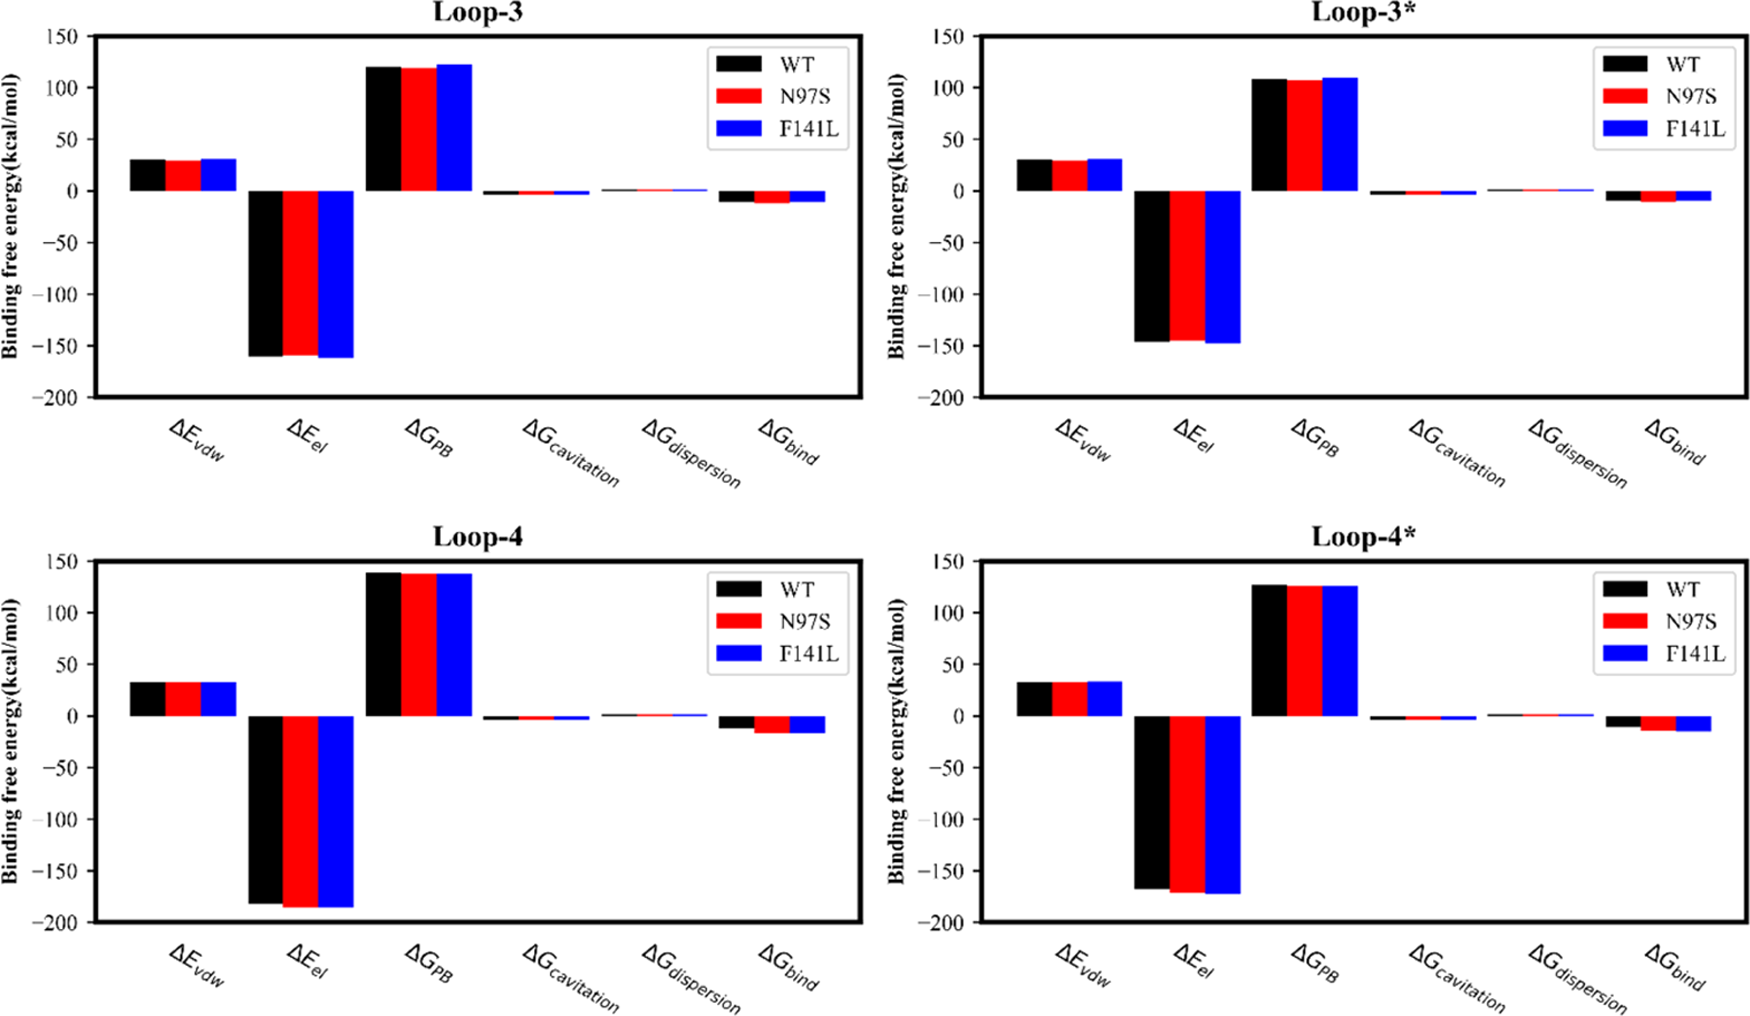
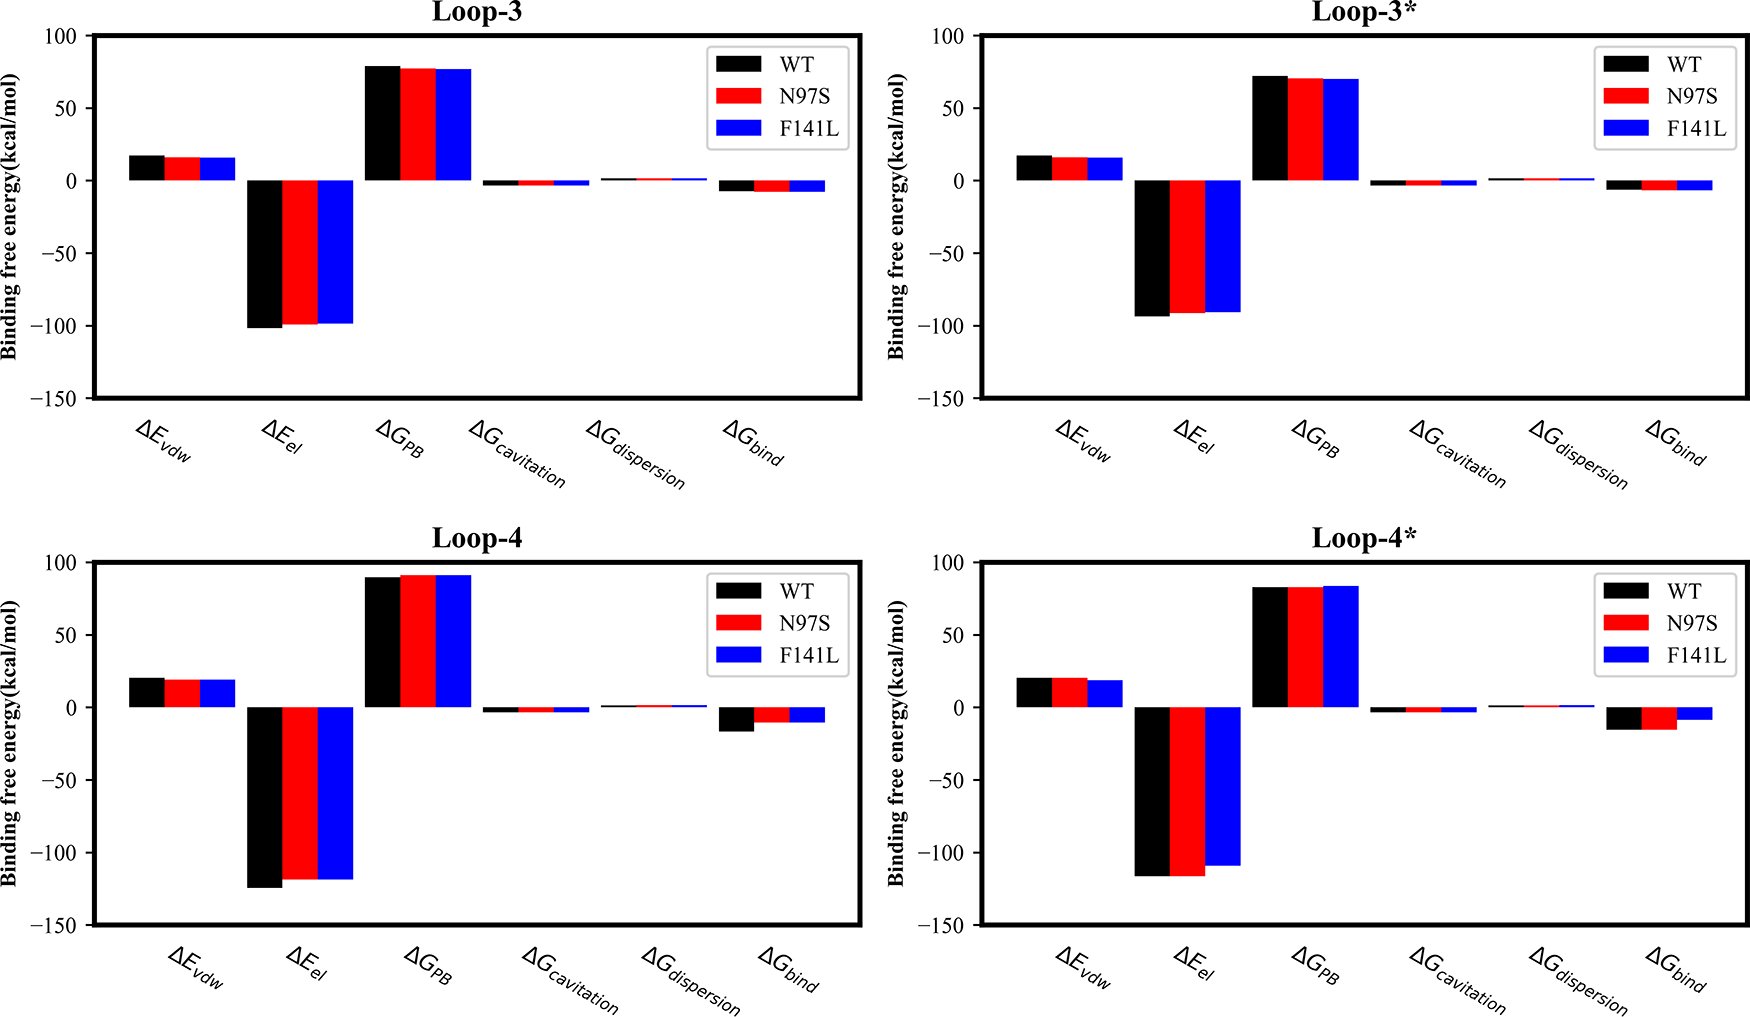
Done MolJam

diff --git a/tools/wechat_html/build_wechat_html.py b/tools/wechat_html/build_wechat_html.py
@@ -687,16 +687,18 @@ def apply_inline_styles(html, theme=None, heading_style="plain", quote_style="ba
         bq_open = (f'<blockquote style="background:{bq["bg"]};'
                    f'padding:{bq["padding"]};color:{bq["color"]};'
                    f'margin:{bq["margin"]};border-radius:10px;'
-                   f'font-size:{bq["size"]}px;line-height:{bq["line_height"]};">'
+                   f'font-size:{bq["size"]}px;line-height:{bq["line_height"]};'
+                   f'text-align:left;">'
                    f'<span style="color:{col["link_border"]};font-size:34px;'
                    f'font-weight:bold;line-height:0.6;vertical-align:-12px;'
-                   f'margin-right:2px;">“</span>')
+                   f'margin-right:2px;">"</span>')
     else:  # bar
         bq_open = (f'<blockquote style="border-left:{bq["border_left"]};'
                    f'background-color:{bq["bg"]};padding:{bq["padding"]};'
                    f'color:{bq["color"]};margin:{bq["margin"]};'
                    f'border-radius:{bq["radius"]};'
-                   f'font-size:{bq["size"]}px;line-height:{bq["line_height"]};">')
+                   f'font-size:{bq["size"]}px;line-height:{bq["line_height"]};'
+                   f'text-align:left;">')
     html = re.sub(r'<blockquote>', bq_open, html)
     return html
 

diff --git a/tools/check_frontmatter.py b/tools/check_frontmatter.py
@@ -101,13 +101,13 @@ def main():
     try:
         root = subprocess.check_output(
             ["git", "rev-parse", "--show-toplevel"], text=True).strip()
-    except subprocess.CalledProcessError:
+    except (subprocess.CalledProcessError, OSError):
         sys.exit(0)
     try:
         out = subprocess.check_output(
             ["git", "diff", "--cached", "--name-only",
              "--diff-filter=ACMR"], text=True).strip()
-    except subprocess.CalledProcessError:
+    except (subprocess.CalledProcessError, OSError):
         out = ""
     candidates = []
     for f in out.split("\n"):

diff --git a/_pages/Molecular Dynamics/FF & Algorithm/Metal/2026-09-02-Basit-2022-ECCR-MM-PBSA-技术细节.md b/_pages/Molecular Dynamics/FF & Algorithm/Metal/2026-09-02-Basit-2022-ECCR-MM-PBSA-技术细节.md
@@ -1,7 +1,7 @@
 ---
 title: "ECCR电荷缩放与MM-PBSA钙调蛋白结合自由能计算细节"
 date: "2026-09-02"
-last_modified_at: "2026-09-02"
+last_modified_at: "2026-09-03"
 tags: [metal-ion-force-field, EF-hand, calmodulin, MM-PBSA, charge-scaling, AMBER, molecular-dynamics, calcium]
 description: "梳理ECCR电荷缩放与MM-PBSA预测钙调蛋白结合自由能的完整流程，逐条核对体系参数、能量分解与回归校准，给出计算细节"
 image: "https://raw.githubusercontent.com/gxf1212/mendelevium/main/assets/img/4K_1080P_compressed/082135PV2YW.jpg"
@@ -20,7 +20,7 @@ lang: zh-CN
 
 ### 1. 基础MD体系参数
 
-以下参数来自正文Section 2和SI Table S2，已核对完整：
+以下参数来自正文Section 2（离子电荷与补偿见SI Table S1/S2），已核对完整：
 
 | 参数项 | 具体设置|
 | -------------------- | ------------------------------------- |
@@ -30,7 +30,7 @@ lang: zh-CN
 | 水盒边界| 10 Å|
 | 盐浓度 | 0.15 M $\ce{KCl}$|
 | $\ce{K^+}$/$\ce{Cl^-}$ 参数| Joung–Cheatham |
-| $\ce{Ca^{2+}}$ LJ参数 | Li–Merz 2013（Table S2）  |
+| $\ce{Ca^{2+}}$ LJ参数 | Li–Merz 2013（12-6 LJ，正文引用48）  |
 | 温度  | 298 K，Langevin thermostat，碰撞频率 $2~\mathrm{ps}^{-1}$ |
 | 压力  | Berendsen barostat，1 bar|
 | 长程静电| PME |
@@ -42,7 +42,7 @@ lang: zh-CN
 
 ## 2. ECCR电荷修改规则
 
-这篇并没有重新拟合新的 $\ce{Ca^{2+}}$ LJ参数。它以Li–Merz $\ce{Ca^{2+}}$ 参数为基础，**只修改静电部分**：
+这篇并没有重新拟合新的 $\ce{Ca^{2+}}$ LJ参数。它以Li–Merz 12-6 $\ce{Ca^{2+}}$ 参数为基础，**只修改静电部分**：
 
 **Table 1：ECCR电荷缩放规则（SI Table S2）**
 
@@ -52,7 +52,7 @@ lang: zh-CN
 | $\ce{K^{+}}$| +1.00 | +0.75 |
 | $\ce{Cl^{-}}$  | −1.00 | −0.75 |
 
-> 电荷规则的全部物理内容就是**统一乘0.75，用平均场方式近似电子极化**，缩放因子来自 $\sqrt{\varepsilon_\text{el}} \approx 0.75$。
+> 电荷规则的全部物理内容就是**统一乘0.75，用平均场方式近似电子极化**，缩放因子来自 $1/\sqrt{\varepsilon_\text{el}} \approx 0.75$（水的电子介电常数约1.78）。
 
 ### 蛋白如何补偿少掉的 +0.5e？
 
@@ -65,7 +65,7 @@ Asp/Glu的**两个羧酸O都修改**，**并不只修改晶体结构中直接朝
 
 ![图5 loop-3与loop-4结合位点的残基示意](./Basit-2022-ECCR-MM-PBSA_figs/fig5.png)
 
-**图5：loop-3与loop-4结合位点残基排布与电荷补偿氧原子**。左图为loop-3，右图为loop-4，单字母缩写加残基编号标注各配位残基。图中显示直接配位 $\ce{Ca^{2+}}$ 的氧原子包括Asp/Glu的羧酸氧、Asn/Gln的酰胺氧、Tyr/Thr的酚羟基或醇羟基氧。ECCR电荷补偿即对这些预先指定的氧原子统一施加 +0.0556e到 +0.0625e的小增量，使蛋白总电荷保持整数。
+**图5：loop-3与loop-4结合位点残基排布与电荷补偿氧原子**。左图为loop-3，右图为loop-4，单字母缩写加残基编号标注各配位残基，W代表结合位点中的水分子。图中显示直接配位 $\ce{Ca^{2+}}$ 的氧原子包括Asp/Glu的羧酸氧、Asn/Gln的酰胺氧、Tyr的酚羟基氧。ECCR电荷补偿即对这些预先指定的氧原子统一施加 +0.0556e到 +0.0625e的小增量，使蛋白总电荷保持整数。
 
 这点对你的体系很重要：
 
@@ -153,10 +153,11 @@ $$
 | F141L |  −11.61 | **−8.19** | −6.62 |
 
 单位均为kcal/mol。对这几个体系，**标准 +2e 钙离子明显过强结合**；简单的电荷缩放把结果大幅拉向实验值。
+> −11.04/−9.90/−11.61 kcal/mol 是正文 Table 5 报告的 STD（标准 ff14SB，正文字脚注注明括号里是 SEM）下的 10 条 2 ns 轨迹均值；ECCR 的 −8.10/−8.46/−8.19 是等价的 ECCR 计算值，实验值为 −7.64/−6.81/−6.62。
 
 ![STD力场下WT和两个突变体N97S / F141L的四种site-specific自由能分解](./Basit-2022-ECCR-MM-PBSA_figs/fig4.png)
 
-**图4（论文Figure 4）**：标准ff14SB力场下WT、N97S、F141L在loop-3 / loop-3* / loop-4 / loop-4* 四个位点的结合自由能分解柱状图。$\Delta E_\text{vdW}$（范德华）、$\Delta E_\text{el}$（气相静电）、$\Delta G_\text{PB}$（极化溶剂化）、$\Delta G_\text{cavitation}$（空腔）和 $\Delta G_\text{dispersion}$（色散）。与ECCR下的图6对照可见，STD力场下 $\Delta E_\text{el}$ 的量级显著更大（绝对值），且突变引起的 $\Delta E_\text{el}$ 变化方向与ECCR下相反。这种方向相反，正是ECCR能改善相对亲和力预测的核心机制之一。
+**图4（论文Figure 4）**：标准ff14SB力场下WT、N97S、F141L在loop-3 / loop-3\* / loop-4 / loop-4\* 四个位点的结合自由能分解柱状图。$\Delta E_\text{vdW}$（范德华）、$\Delta E_\text{el}$（气相静电）、$\Delta G_\text{PB}$（极化溶剂化）、$\Delta G_\text{cavitation}$（空腔）和 $\Delta G_\text{dispersion}$（色散）。与ECCR下的图6对照可见，STD力场下 $\Delta E_\text{el}$ 的量级显著更大（绝对值），且突变引起的 $\Delta E_\text{el}$ 变化方向与ECCR下相反。这种方向相反，正是ECCR能改善相对亲和力预测的核心机制之一。
 
 SI Table S7给出了全部体系的ECCR结果。我直接根据Table S7重新统计全部WT与17个突变体，**在任何后续回归拟合之前**：
 
@@ -213,7 +214,7 @@ $$
 
 > 用MD得到的vdW能量变化作为描述符，再对实验亲和力重新拟合一个线性模型。
 
-它得到RMSE ≈ **0.34 kcal/mol**、Spearman $r \approx$ **0.80**、Pearson $r \approx$ **0.80**；SI多描述符版本甚至有RMSE ≈ 0.31 kcal/mol。
+它得到RMSE ≈ **0.34 kcal/mol**、Spearman $r \approx$ **0.80**、Pearson $r \approx$ **0.80**；多描述符模型的误差与它接近（主文称各模型RMSE与相关性都很接近），其R²为0.698（SI Table S10）。
 
 作者也做了leave-3/4/5-out cross-validation：
 

diff --git a/_pages/Molecular Dynamics/FF & Algorithm/Metal/2026-09-02-Basit-2022-ECCR-MM-PBSA-简讯.md b/_pages/Molecular Dynamics/FF & Algorithm/Metal/2026-09-02-Basit-2022-ECCR-MM-PBSA-简讯.md
@@ -75,7 +75,7 @@ lang: zh-CN
 
 - loop-3、loop-3*、loop-4、loop-4*分别对应另一位点为空或已被 $\ce{Ca^{2+}}$ 占据时的四种过程；
 - 能量项包括 $\Delta E_	ext{vdW}$、$\Delta E_	ext{el}$、$\Delta G_	ext{PB}$、空腔项和色散项；
-- 与STD结果（图4）相比，ECCR主要改变静电项的大小与突变响应方向，loop-4的变化比loop-3更明显。
+- 与STD（**standard ff14SB**）结果（图4）相比，ECCR主要改变静电项的大小与突变响应方向，loop-4的变化比loop-3更明显。
 
 ## 研究结果与分析
 
@@ -83,16 +83,11 @@ lang: zh-CN
 
 以10条2 ns轨迹结果为例，几个代表体系的绝对结合自由能如下表所示，单位kcal/mol，越负表示结合越强：
 
-| 系统    | STD ff14SB |  ECCR |    实验 |
-| ----- | ---------: | ----: | ----: |
-| WT    |     −11.04 | −8.10 | −7.64 |
-| N97S  |      −9.90 | −8.46 | −6.81 |
-| F141L |     −11.61 | −8.19 | −6.62 |
-| D95V  |      −8.52 | −6.14 | −6.09 |
-| G113R |      −8.15 | −7.28 | −6.95 |
-| D131E |     −12.03 | −8.77 | −5.89 |
-| Q135P |     −11.80 | −9.25 | −6.58 |
-| E140K |      −7.10 | −4.61 | −5.62 |
+|  |  WT| N97S  | F141L | D95V  | G113R | D131E | Q135P | E140K |
+| --------- | ----- | ----- | ----- | ----- | ----- | ----- | ----- | ----- |
+| STD | −11.04| −9.90 | −11.61| −8.52 | −8.15 | −12.03| −11.80| −7.10 |
+| ECCR| −8.10 | −8.46 | −8.19 | −6.14 | −7.28 | −8.77 | −9.25 | −4.61 |
+| 实验| −7.64 | −6.81 | −6.62 | −6.09 | −6.95 | −5.89 | −6.58 | −5.62 |
 
 - 标准 +2e模型**系统性过强结合**，ECCR把结合自由能**显著拉向实验值**，说明钙离子的过强静电确实是ff14SB搭配TIP3P水模型的主要误差来源，平均场电荷缩放能把每个体系的结合自由能拉回实验方向**2到4 kcal/mol**。
 
@@ -107,11 +102,11 @@ lang: zh-CN
 - 五描述符多元回归把相关性**提到Spearman 0.82、Pearson 0.84**，但逐步削减后最终只剩范德华变化 $\Delta\Delta E_\text{vdW}$，得到单描述符模型 $\Delta\Delta G_\text{model}$ = 0.9863 − 0.3083 × $\Delta\Delta E_\text{vdW}$；SI多描述符版本甚至到0.31 kcal/mol。
 - 交叉验证leave-3/4/5-out结果如下表所示，测试集RMSE**稳定在0.32到0.33 kcal/mol**，Spearman和Pearson相关系数在**0.69到0.75之间**，说明回归模型在训练集内部有一定泛化能力，但测试集仍较小且**均来自同一批钙调蛋白点突变**。
 
-| CV方案       | 训练RMSE | 测试RMSE | 测试Spearman | 测试Pearson |
+| CV方案 | 训练RMSE | 测试RMSE | 测试Spearman | 测试Pearson |
 | ----------- | ------: | ------: | ----------: | ---------: |
-| leave-5-out |    0.33 |    0.33 |        0.75 |       0.75 |
-| leave-4-out |    0.34 |    0.32 |        0.73 |       0.72 |
-| leave-3-out |    0.34 |    0.32 |        0.70 |       0.69 |
+| leave-5-out | 0.33 | 0.33 |  0.75 | 0.75 |
+| leave-4-out | 0.34 | 0.32 |  0.73 | 0.72 |
+| leave-3-out | 0.34 | 0.32 |  0.70 | 0.69 |
 
 ![原始ECCR MM-PBSA结果与实验数据的散点图及回归校准后结果对比](./Basit-2022-ECCR-MM-PBSA_figs/fig9.png)
 
